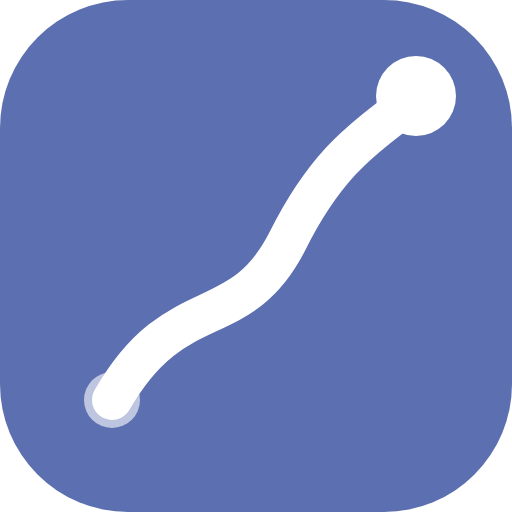
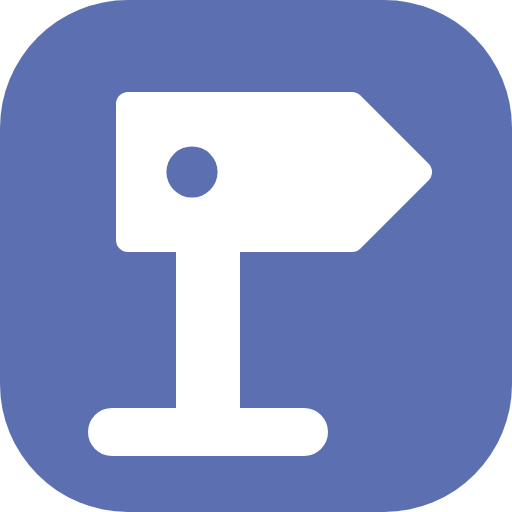
道標のアイコンに描き直し、サブタイトルを「きょうのあなたもちゃんと歩けるように」に
- アイコンを太い柱と土台のある道標の形に変更（SVG と PNG を再生成）
- ヘッダー・空表示・祝福表示のマークも同じ道標に
- 言葉の軸を「道」から「きょうのあなた」へ。タイトル、状態の文、マニフェスト、README を更新

Claude-Session: https://claude.ai/code/session_017NkutJabLUiG7RSsbEG1sS

Changed region(s): [[0.2188, 0.0938, 0.9062, 0.625], [0.1562, 0.5938, 0.6562, 0.9062]]

diff --git a/index.html b/index.html
@@ -3,8 +3,8 @@
 <head>
 <meta charset="UTF-8">
 <meta name="viewport" content="width=device-width, initial-scale=1.0, viewport-fit=cover">
-<title>みちしき｜きょう歩く道を、ならべる</title>
-<meta name="description" content="その日にやることを、ならべて、わけて、ひとつずつ片づけるための自己整理アプリ。データは端末の中だけに保存します。">
+<title>みちしき｜きょうのあなたもちゃんと歩けるように</title>
+<meta name="description" content="きょうのあなたもちゃんと歩けるように。やることをならべて、わけて、ひとつずつ片づける自己整理アプリ。データは端末の中だけに保存します。">
 <link rel="manifest" href="manifest.webmanifest">
 <meta name="theme-color" content="#f5f7fb">
 <link rel="icon" href="icons/icon.svg" type="image/svg+xml">
@@ -33,9 +33,10 @@
 <header class="top">
   <div class="brand">
     <svg class="mark" viewBox="0 0 32 32" aria-hidden="true">
-      <path d="M6 26 C 10 18, 14 22, 17 15 S 24 8, 27 6" fill="none" stroke="currentColor" stroke-width="2.6" stroke-linecap="round"/>
-      <circle cx="27" cy="6" r="2.6" fill="currentColor"/>
-      <circle cx="6" cy="26" r="1.8" fill="currentColor" opacity=".55"/>
+      <path d="M13 12 V 26.5" stroke="currentColor" stroke-width="4" stroke-linecap="round"/>
+      <path d="M7 27 H 19" stroke="currentColor" stroke-width="3" stroke-linecap="round"/>
+      <path d="M8 6.5 H 22 L 26.25 10.75 L 22 15 H 8 Z" fill="currentColor" stroke="currentColor" stroke-width="1.5" stroke-linejoin="round"/>
+      <circle cx="12" cy="10.75" r="1.6" fill="var(--bg)"/>
     </svg>
     <h1 class="wordmark">みちしき</h1>
   </div>
@@ -47,7 +48,7 @@
 <main class="app">
   <section class="today" aria-label="きょうの状況">
     <div class="today-text">
-      <p class="today-eyebrow">きょうの道</p>
+      <p class="today-eyebrow">きょうのあなたもちゃんと歩けるように</p>
       <h2 class="today-date" id="todayDate">—</h2>
       <p class="today-status" id="todayStatus">—</p>
     </div>
@@ -153,7 +154,7 @@
     </fieldset>
 
     <div class="about">
-      <p><b>みちしき</b> は、その日にやることをならべて、わけて、ひとつずつ片づけるための道しるべです。</p>
+      <p><b>みちしき</b> は、きょうのあなたがちゃんと歩けるように、やることをならべて、わけて、ひとつずつ片づけるための道しるべです。</p>
       <p class="about-michi">michi シリーズ： <a href="https://soramichi.pages.dev/" target="_blank" rel="noopener">そらみち ☀☽</a>（太陽と月の撮影計画マップ）</p>
     </div>
 
@@ -168,10 +169,12 @@
 <dialog class="finale" id="finale" aria-labelledby="finaleTitle">
   <div class="finale-body">
     <svg class="finale-mark" viewBox="0 0 32 32" aria-hidden="true">
-      <path d="M6 26 C 10 18, 14 22, 17 15 S 24 8, 27 6" fill="none" stroke="currentColor" stroke-width="2.6" stroke-linecap="round"/>
-      <circle cx="27" cy="6" r="2.6" fill="currentColor"/>
+      <path d="M13 12 V 26.5" stroke="currentColor" stroke-width="4" stroke-linecap="round"/>
+      <path d="M7 27 H 19" stroke="currentColor" stroke-width="3" stroke-linecap="round"/>
+      <path d="M8 6.5 H 22 L 26.25 10.75 L 22 15 H 8 Z" fill="currentColor" stroke="currentColor" stroke-width="1.5" stroke-linejoin="round"/>
+      <circle cx="12" cy="10.75" r="1.6" fill="var(--panel)"/>
     </svg>
-    <h3 id="finaleTitle">きょうの道、ぜんぶ歩きました。</h3>
+    <h3 id="finaleTitle">きょうのあなたは、ちゃんと歩きました。</h3>
     <p id="finaleSub">ここまで来た自分に、ひと息。</p>
     <button type="button" class="primary-btn" id="finaleClose">ありがとう</button>
   </div>

diff --git a/js/app.js b/js/app.js
@@ -151,9 +151,9 @@
     $('#ringBar').style.strokeDashoffset = String(251.3 * (1 - ratio));
     let status;
     if (total === 0) status = 'まだ何も置いていません。';
-    else if (done === total) status = 'ぜんぶ歩きました。';
-    else if (done === 0) status = `${total} 件の道が待っています。`;
-    else status = `あと ${total - done} 件。`;
+    else if (done === total) status = 'きょうの分は、ぜんぶ歩きました。';
+    else if (done === 0) status = `${total} 件。ひとつずつで、だいじょうぶ。`;
+    else status = `あと ${total - done} 件。いい歩き方です。`;
     $('#todayStatus').textContent = status;
   }
 
@@ -189,8 +189,8 @@
     if (u.length === 0 && d.length === 0) {
       html = `
         <div class="empty">
-          <svg viewBox="0 0 32 32" aria-hidden="true"><path d="M6 26 C 10 18, 14 22, 17 15 S 24 8, 27 6" fill="none" stroke="currentColor" stroke-width="2.2" stroke-linecap="round"/><circle cx="27" cy="6" r="2.4" fill="currentColor"/></svg>
-          <p>きょう歩く道を、ひとつ書いてみましょう。</p>
+          <svg viewBox="0 0 32 32" aria-hidden="true"><path d="M13 12 V 26.5" stroke="currentColor" stroke-width="4" stroke-linecap="round"/><path d="M7 27 H 19" stroke="currentColor" stroke-width="3" stroke-linecap="round"/><path d="M8 6.5 H 22 L 26.25 10.75 L 22 15 H 8 Z" fill="currentColor" stroke="currentColor" stroke-width="1.5" stroke-linejoin="round"/><circle cx="12" cy="10.75" r="1.6" fill="var(--bg)"/></svg>
+          <p>きょうのあなたがやることを、ひとつ書いてみましょう。</p>
           <small>下の欄に入れて、追加するだけ。順番はあとから並べかえられます。</small>
         </div>`;
     } else {

diff --git a/docs/CONCEPT.md b/docs/CONCEPT.md
@@ -4,7 +4,7 @@
 
 その日にやることを頭の中だけで整理するのは、誰にとっても難しい。多動傾向や ADHD のある人にとってはなおさらで、「やることが多すぎて手が止まる」「順番が決められない」「昨日の残りが積み上がって圧迫感になる」が日常的に起きる。
 
-**みちしき** は、そうした人が「きょう歩く道」を自分で見つけるための道しるべになることを目的とする。高機能なタスク管理ツールとは張り合わない。覚える操作を最小限にし、置いた瞬間から見通しが立つことを価値にする。
+**みちしき** は、そうした人が「きょうの自分も、ちゃんと歩けた」と思えるための道しるべになることを目的とする。主役は道ではなく、歩く本人である。高機能なタスク管理ツールとは張り合わない。覚える操作を最小限にし、置いた瞬間から見通しが立つことを価値にする。
 
 ## 2. コンセプト
 
@@ -40,7 +40,7 @@
 ```
 ┌──────────────────────────────┐
 │ ／ みちしき                 ⚙ │
-│ きょうの道                    │
+│ きょうのあなたもちゃんと歩けるように │
 │ 9月5日 土曜日          ◯ 1/7  │
 │ あと 6 件。                   │
 │ [ならべる | わける]  4象限の順に │

diff --git a/README.md b/README.md
@@ -1,4 +1,4 @@
-# みちしき — きょう歩く道を、ならべる
+# みちしき — きょうのあなたもちゃんと歩けるように
 
 その日にやることを **ならべて、わけて、ひとつずつ片づける** ための自己整理アプリです。
 やることの整理が苦手な人（多動傾向・ADHD の方を含む）が、迷わずに使えることを第一に考えています。
@@ -60,6 +60,6 @@ python3 -m http.server 8000
 ## michi シリーズ
 
 - **そらみち ☀☽** — 太陽と月の撮影計画マップ https://soramichi.pages.dev/
-- **みちしき** — きょう歩く道を、ならべる（本アプリ）
+- **みちしき** — きょうのあなたもちゃんと歩けるように（本アプリ）
 
 どちらも「サーバーを持たない・登録がいらない・端末の中で完結する」を共通の思想にしています。

diff --git a/CHANGELOG.md b/CHANGELOG.md
@@ -11,4 +11,4 @@
 - 日付が変わると、できた分を手放し、まだの分だけを持ち越す。持ち越し件数をお知らせ
 - 色のテーマ 5 種（あい・あさやけ・わかば・ゆうなぎ・こはく）と、外観（端末にあわせる／明るい／暗い）
 - データはこの端末の `localStorage` にだけ保存。JSON ファイルへの書き出し・読み込み、すべて消す
-- PWA（マニフェスト・Service Worker・アイコン）
+- PWA（マニフェスト・Service Worker・道標のアイコン）
